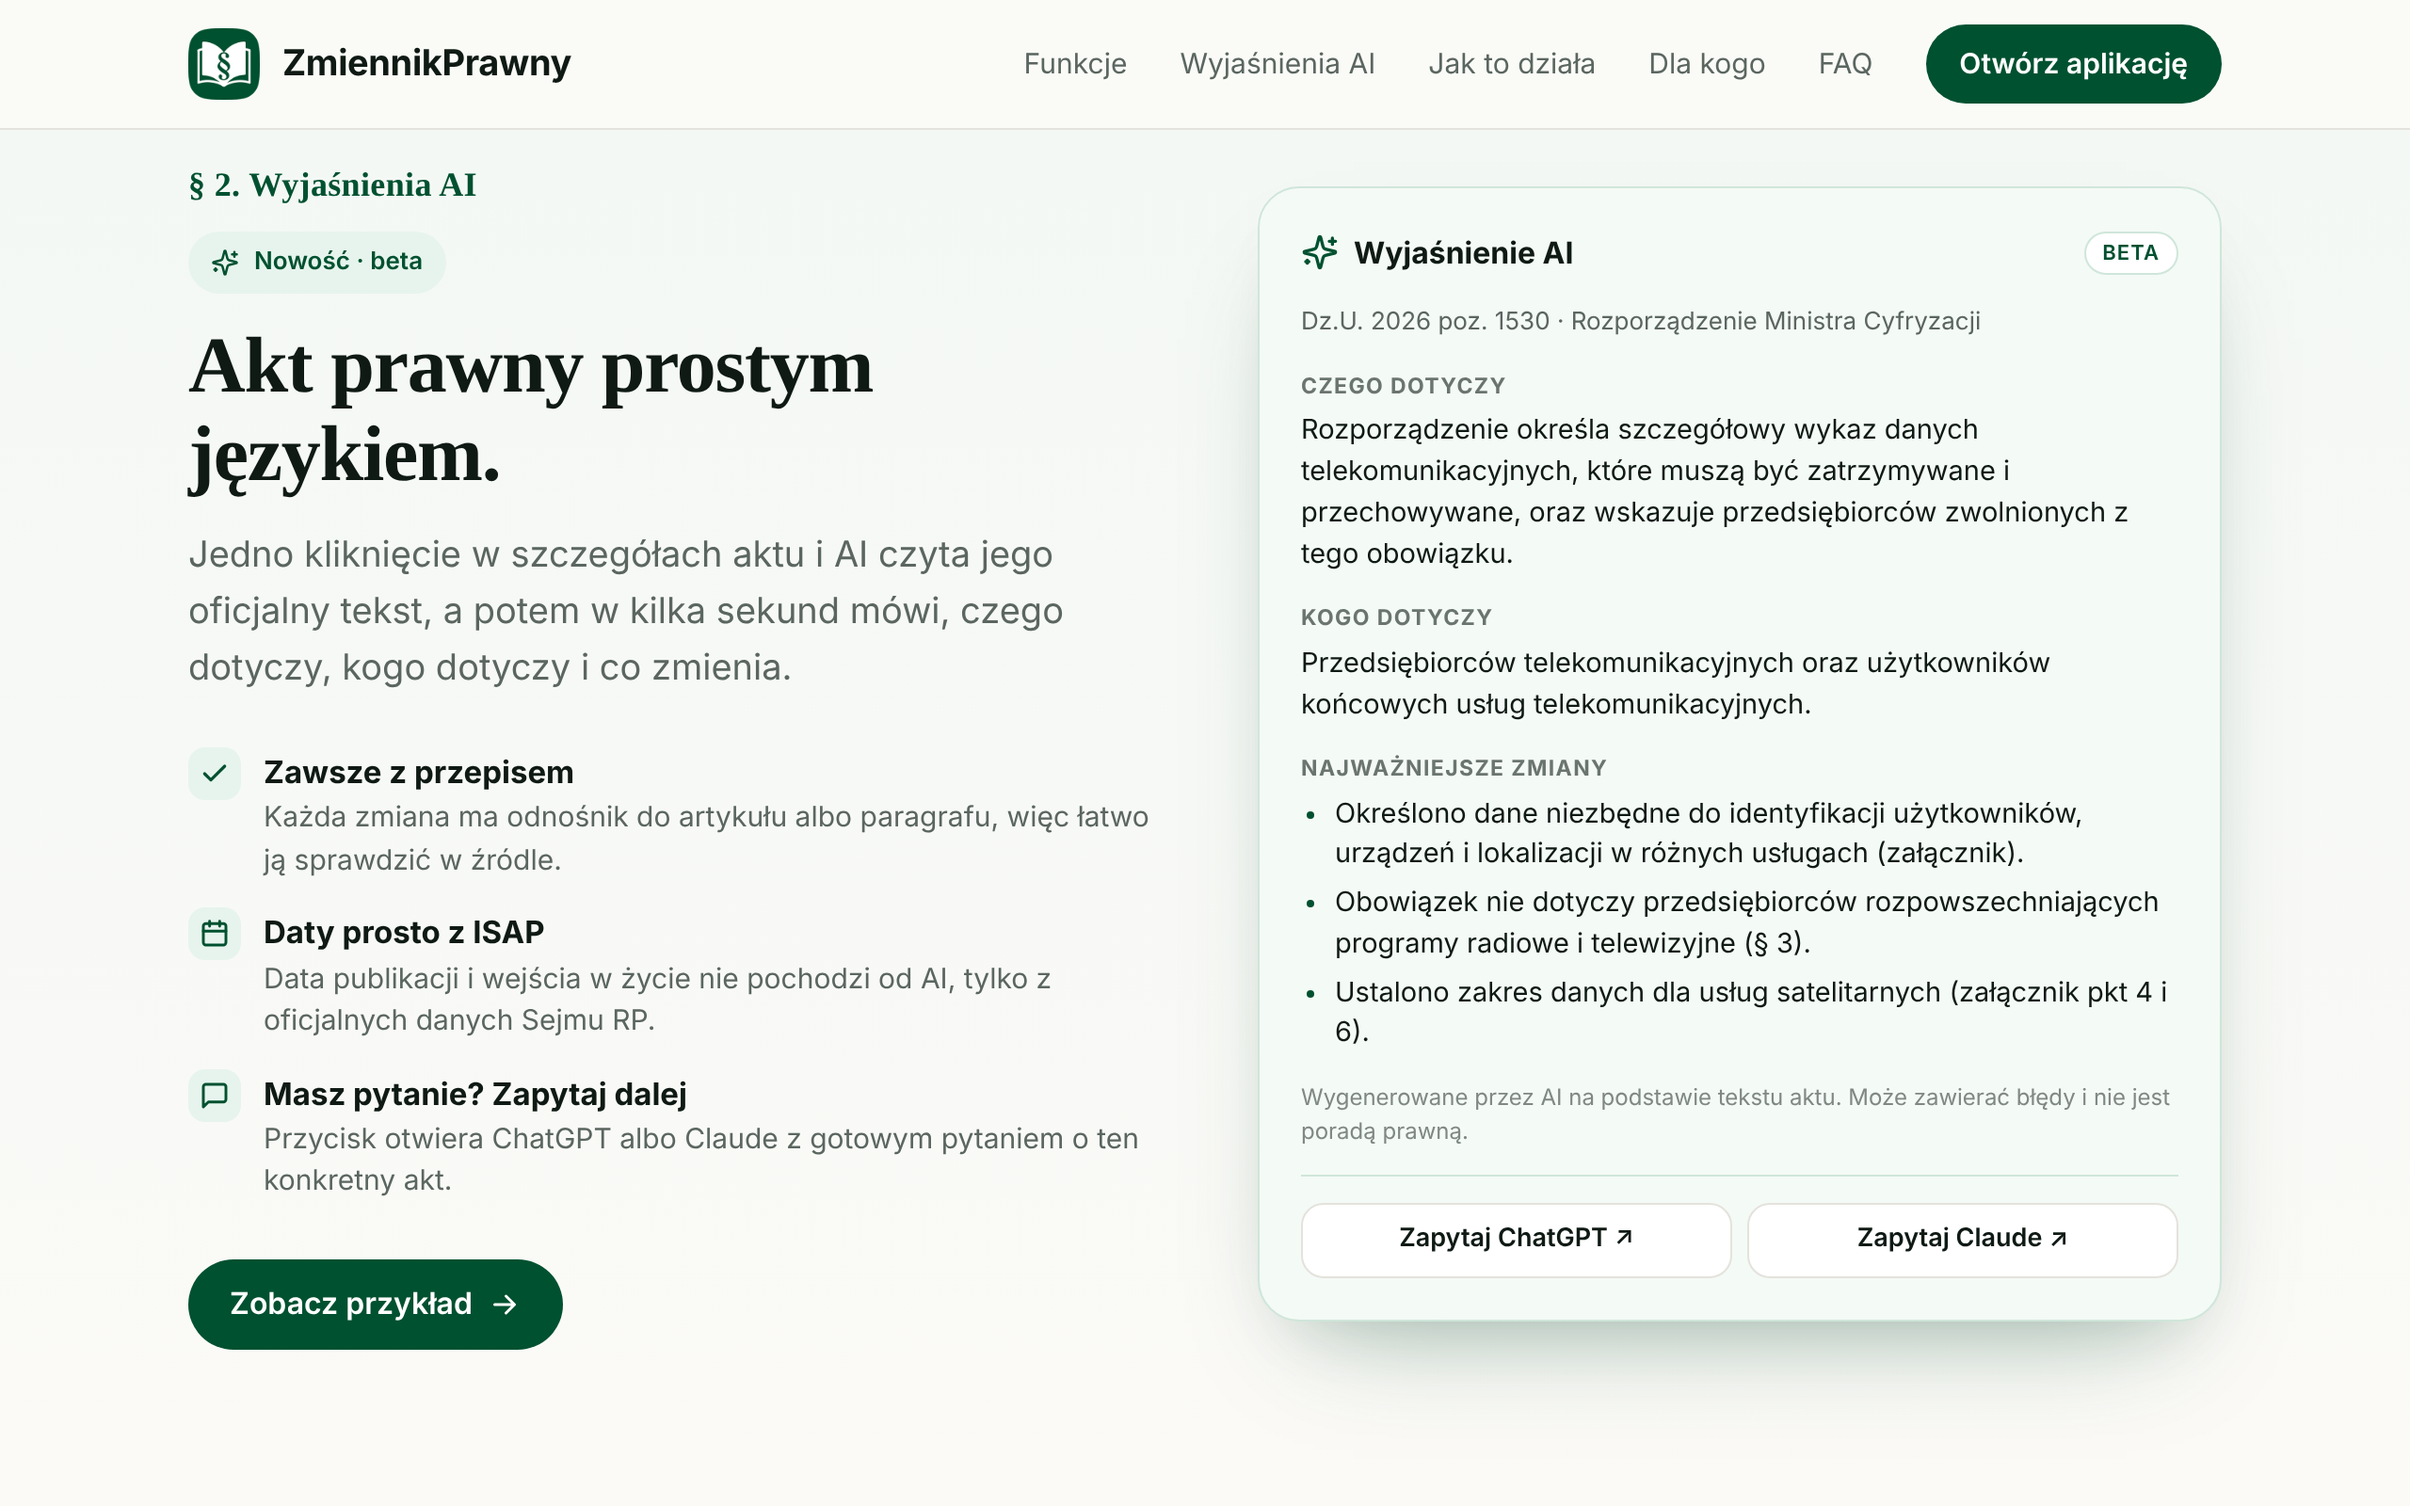
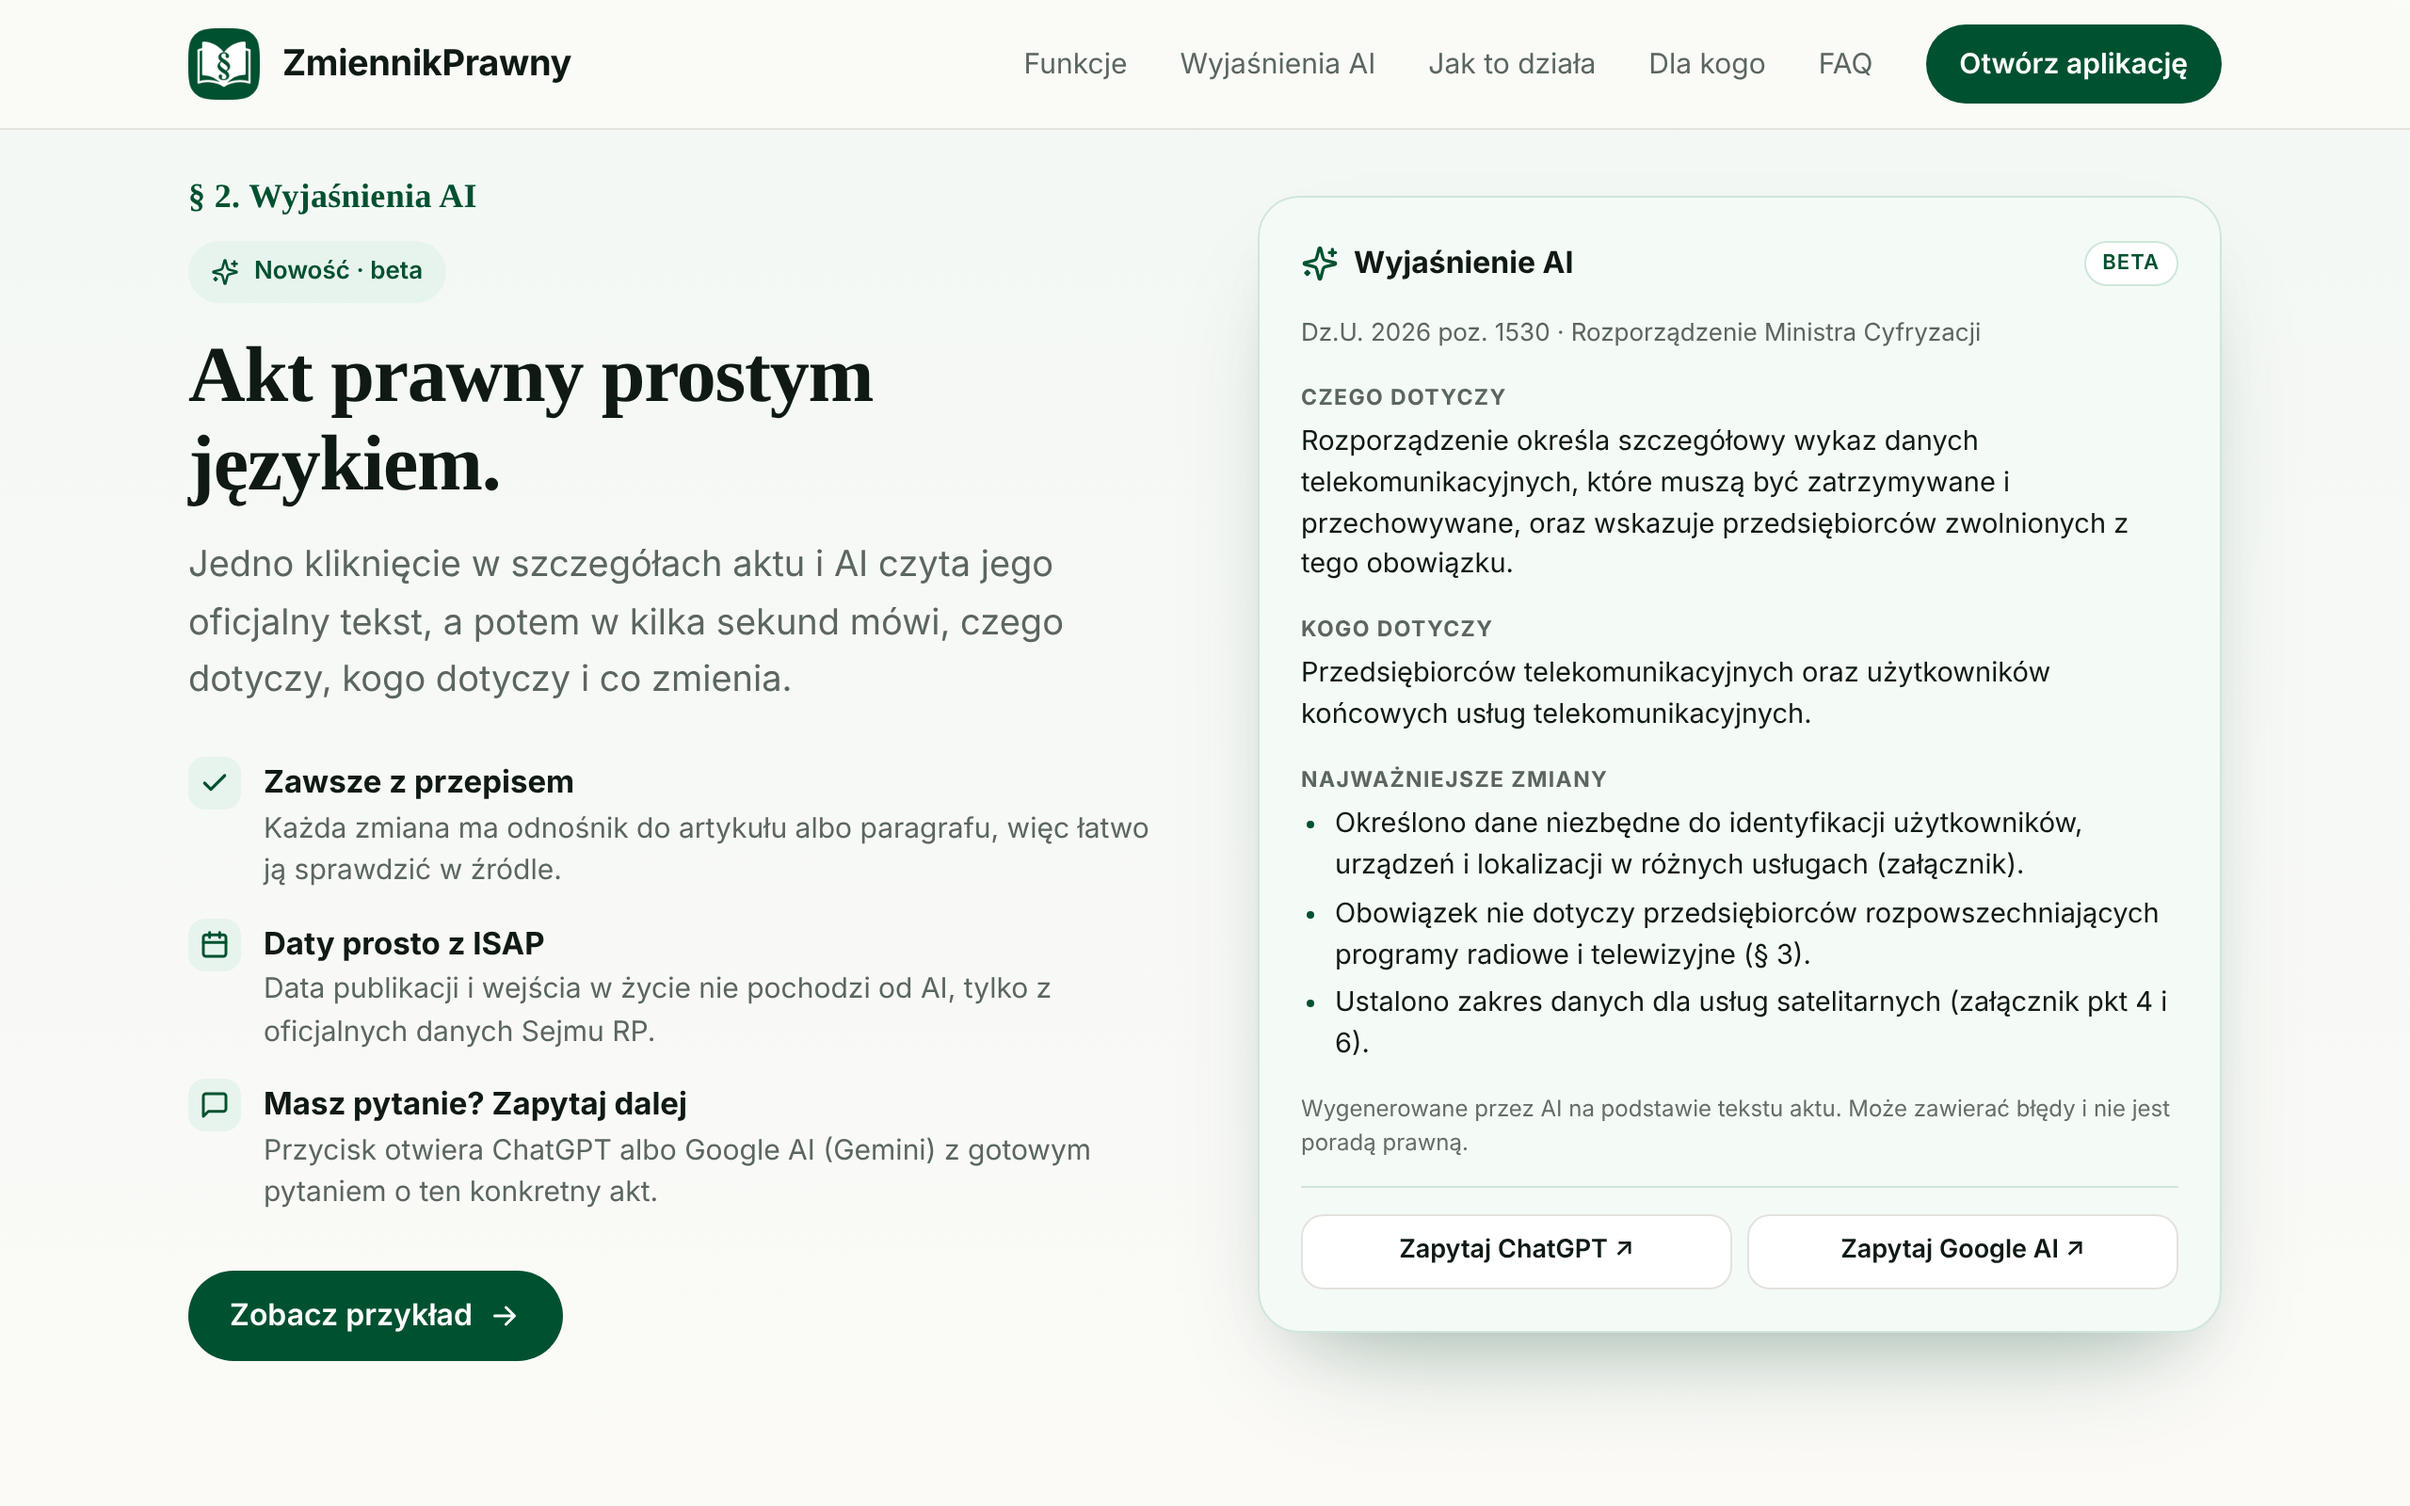
Add files via upload

diff --git a/index.html b/index.html
@@ -327,7 +327,7 @@ footer{border-top:1px solid var(--line);padding:36px 0 calc(36px + env(safe-area
         <ul class="ai-list">
           <li><span class="n"><svg viewBox="0 0 24 24" fill="none" stroke="currentColor" stroke-width="2.4" stroke-linecap="round" stroke-linejoin="round" aria-hidden="true"><path d="M20 6 9 17l-5-5"/></svg></span><span><b>Zawsze z przepisem</b><small>Każda zmiana ma odnośnik do artykułu albo paragrafu, więc łatwo ją sprawdzić w źródle.</small></span></li>
           <li><span class="n"><svg viewBox="0 0 24 24" fill="none" stroke="currentColor" stroke-width="2.2" stroke-linecap="round" stroke-linejoin="round" aria-hidden="true"><rect x="3" y="4" width="18" height="17" rx="2"/><path d="M16 2v4M8 2v4M3 10h18"/></svg></span><span><b>Daty prosto z ISAP</b><small>Data publikacji i wejścia w życie nie pochodzi od AI, tylko z oficjalnych danych Sejmu RP.</small></span></li>
-          <li><span class="n"><svg viewBox="0 0 24 24" fill="none" stroke="currentColor" stroke-width="2.2" stroke-linecap="round" stroke-linejoin="round" aria-hidden="true"><path d="M21 15a2 2 0 0 1-2 2H7l-4 4V5a2 2 0 0 1 2-2h14a2 2 0 0 1 2 2z"/></svg></span><span><b>Masz pytanie? Zapytaj dalej</b><small>Przycisk otwiera ChatGPT albo Claude z gotowym pytaniem o ten konkretny akt.</small></span></li>
+          <li><span class="n"><svg viewBox="0 0 24 24" fill="none" stroke="currentColor" stroke-width="2.2" stroke-linecap="round" stroke-linejoin="round" aria-hidden="true"><path d="M21 15a2 2 0 0 1-2 2H7l-4 4V5a2 2 0 0 1 2-2h14a2 2 0 0 1 2 2z"/></svg></span><span><b>Masz pytanie? Zapytaj dalej</b><small>Przycisk otwiera ChatGPT albo Google AI (Gemini) z gotowym pytaniem o ten konkretny akt.</small></span></li>
         </ul>
         <a class="btn btn-primary" href="https://app.zmiennikprawny.pl/#/DU/2026/1530">
           Zobacz przykład
@@ -348,7 +348,7 @@ footer{border-top:1px solid var(--line);padding:36px 0 calc(36px + env(safe-area
           <li>Ustalono zakres danych dla usług satelitarnych (załącznik pkt 4 i 6).</li>
         </ul>
         <p class="note">Wygenerowane przez AI na podstawie tekstu aktu. Może zawierać błędy i nie jest poradą prawną.</p>
-        <div class="ask"><span>Zapytaj ChatGPT ↗</span><span>Zapytaj Claude ↗</span></div>
+        <div class="ask"><span>Zapytaj ChatGPT ↗</span><span>Zapytaj Google AI ↗</span></div>
       </div>
     </div>
   </section>
